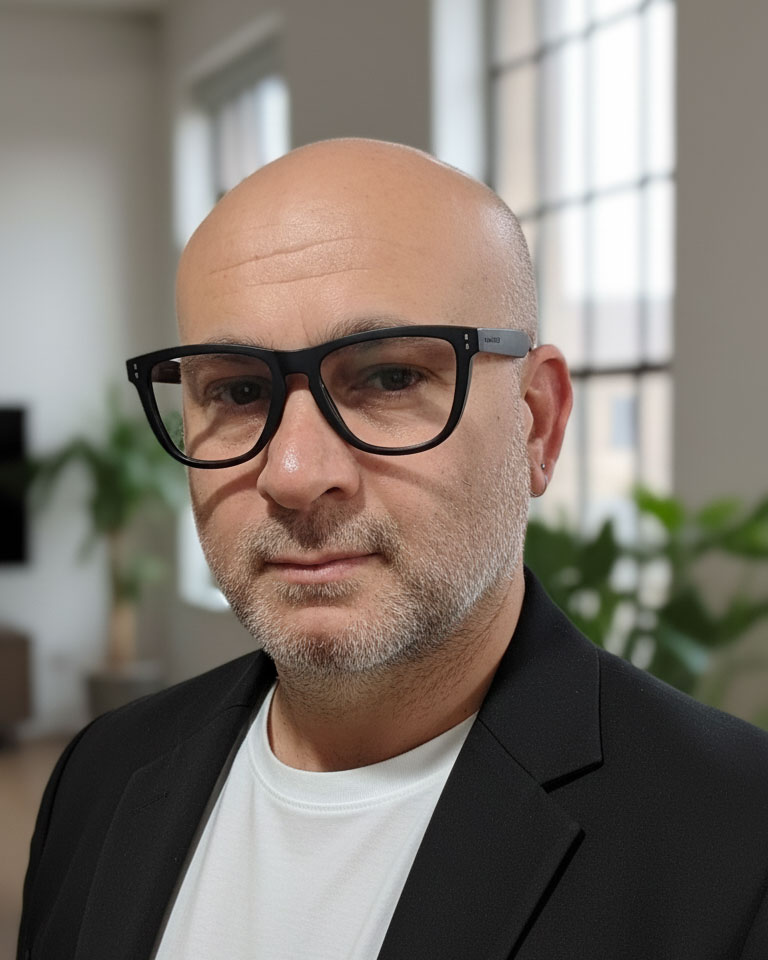
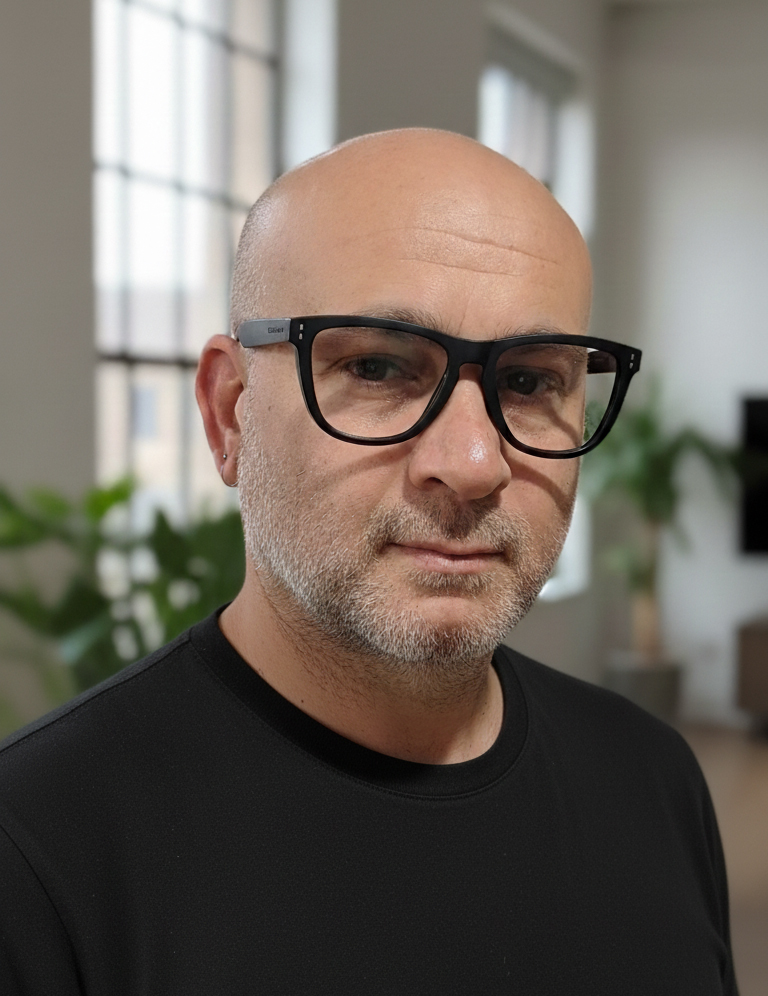
mejora foto hero

diff --git a/index.html b/index.html
@@ -1057,7 +1057,7 @@
             </div>
             <div class="hero-image">
                 <div class="profile-card">
-                    <img src="./assets/images/pablo-hero.jpg" alt="DOTTA" class="profile-img">
+                    <img src="./assets/images/pablo-hero.jpg" DOTTA class="profile-img">
                     <div class="stats">
                         <div class="stat">
                             <div class="stat-number">50+</div>
